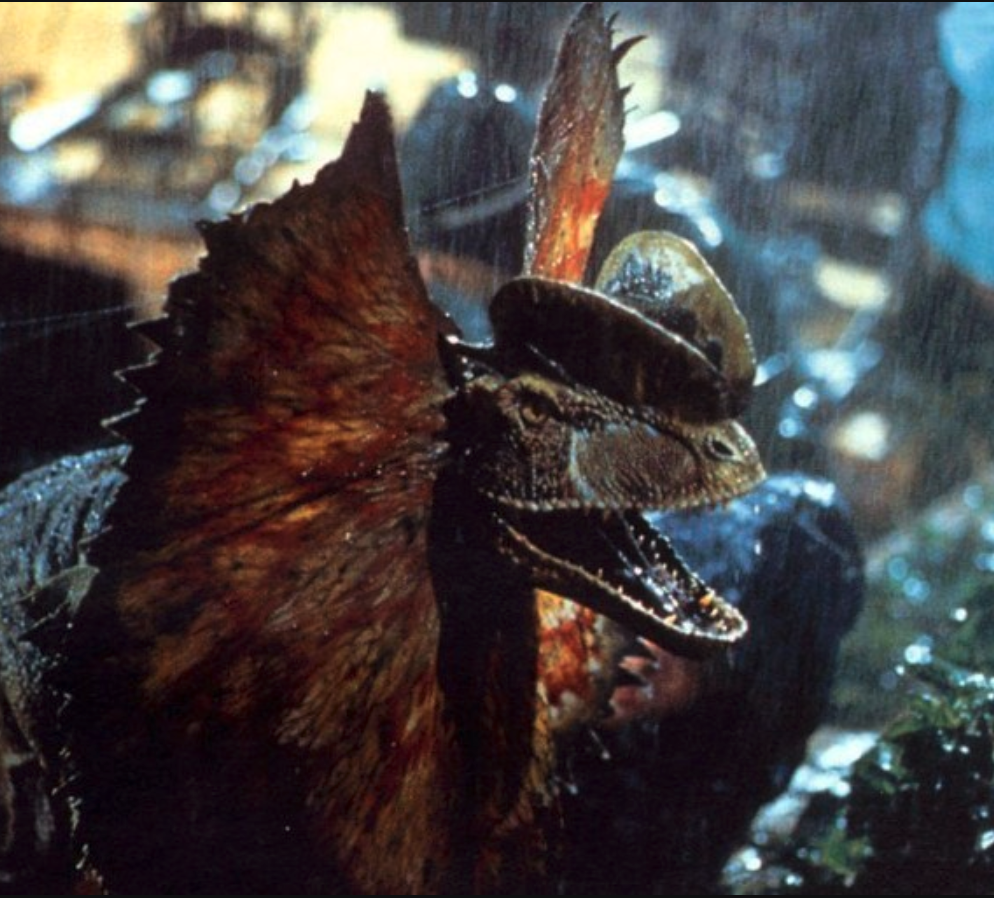
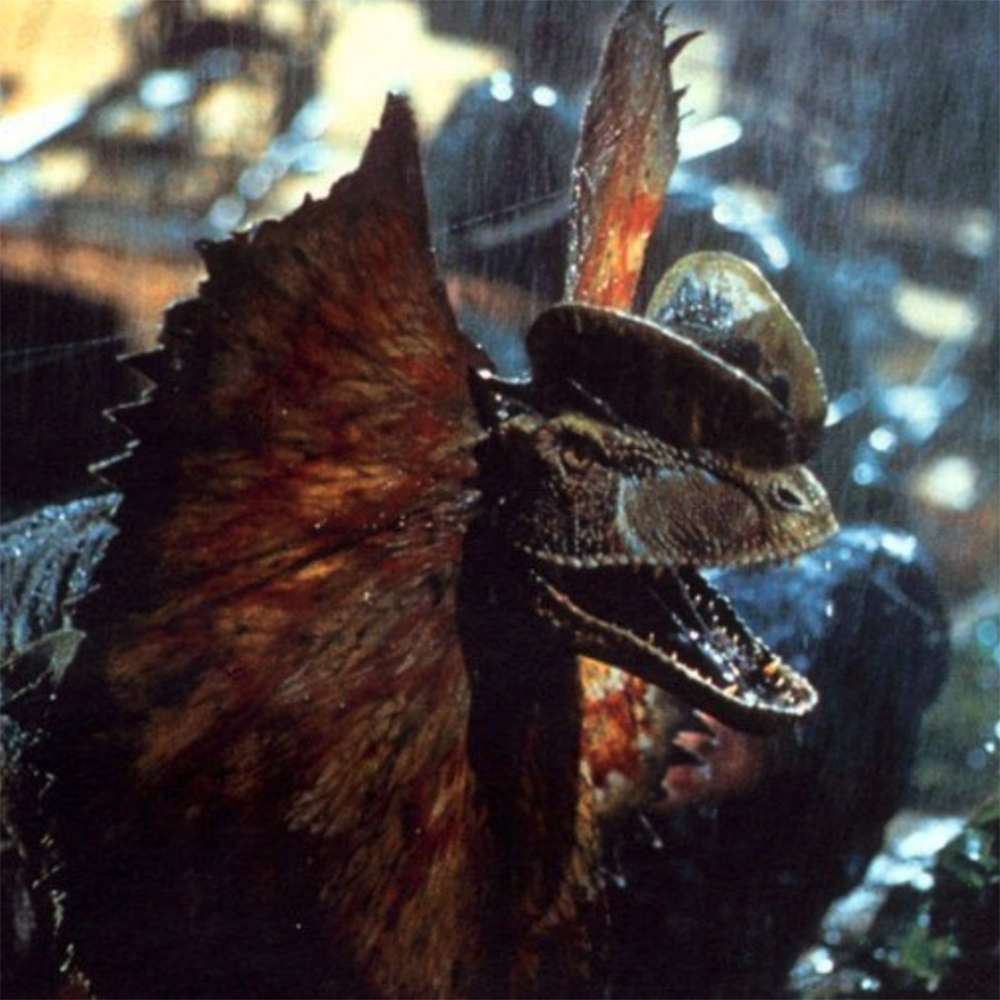
added more animals to grid, fixed spacing issues, little styling on list

diff --git a/petstravaganza-frontend/src/index.js b/petstravaganza-frontend/src/index.js
@@ -119,6 +119,7 @@ function populateTasks() {
   if (task_queue.length > 0) {
     // if so, check if there are already 10 tasks in the sidebar
     if (taskList.childElementCount < 10) {
+
       let taskObject = task_queue.shift()
       let task = document.createElement('div');
       task.className = 'task'
@@ -126,7 +127,8 @@ function populateTasks() {
       let currentAnimal = currentAnimals.find(animal => {
         return animal.id === taskObject.animal_id
       })
-      task.innerText = `${currentAnimal.name} the ${currentAnimal.species} needs to ${activityPhrases[taskObject.activity]}!`
+      debugger
+      task.innerHTML = ` ${currentAnimal.name} the ${currentAnimal.species} needs to <strong>${activityPhrases[taskObject.activity]}</strong>!`
       task.dataset.animalId = taskObject.animal_id
       task.dataset.taskId = taskObject.id
       task.dataset.task = taskObject.activity

diff --git a/petstravaganza-frontend/style.css b/petstravaganza-frontend/style.css
@@ -40,14 +40,16 @@ h1, h2, h3, h4, p {
 	grid-row: auto / span 3 !important;
 	float: left;
   color: navy;
+  height: 64.5%;
 }
 
 .wrapper {
   display: grid;
-  grid-template-columns: 28% 18% 18% 18% 18%;
+  align: center;
+  grid-template-columns: 28% 18% 18% 18%;
 	padding-right: 45px;
 	/* margin-bottom: 500px; */
-	grid-template-rows: 85% 85% 85% 85%;
+	grid-template-rows: 50% 50% 50% 50%;
   grid-gap: 10px;
   background-color: #transparent;
   color: #444;
@@ -93,4 +95,5 @@ h4 {
 .task {
   color: navy;
   padding-bottom: 3%;
+  font-size: 25px;
 }

diff --git a/petstravaganza-backend/app/models/animal.rb b/petstravaganza-backend/app/models/animal.rb
@@ -5,7 +5,15 @@ class Animal < ApplicationRecord
     'corgi' => 'assets/corgi.jpg',
     'parrot' => 'assets/parrot.jpg',
     'komodo dragon' => 'assets/komodo.jpg',
-    'dilophosaurus' => 'assets/dilo.png'
+    'dilophosaurus' => 'assets/dilo2.jpg',
+    'beluga whale' => 'assets/beluga.jpg',
+    'chow chow' => 'assets/chowchow.jpg',
+    'doodle' => 'assets/doodle.jpg',
+    'jellyfish' => 'assets/jellyfish.jpg',
+    'persian' => 'assets/persian.jpg',
+    'chameleon' => 'assets/chameleon.jpg',
+    'cheetah' => 'assets/cheetah.jpg',
+    'horse' => 'assets/horse.jpg'
   }
 
   def self.generate
@@ -21,7 +29,7 @@ class Animal < ApplicationRecord
 
   def self.generate_animal_array
     animal_array = []
-    4.times do
+    6.times do
       animal_array << self.generate
     end
     animal_array
